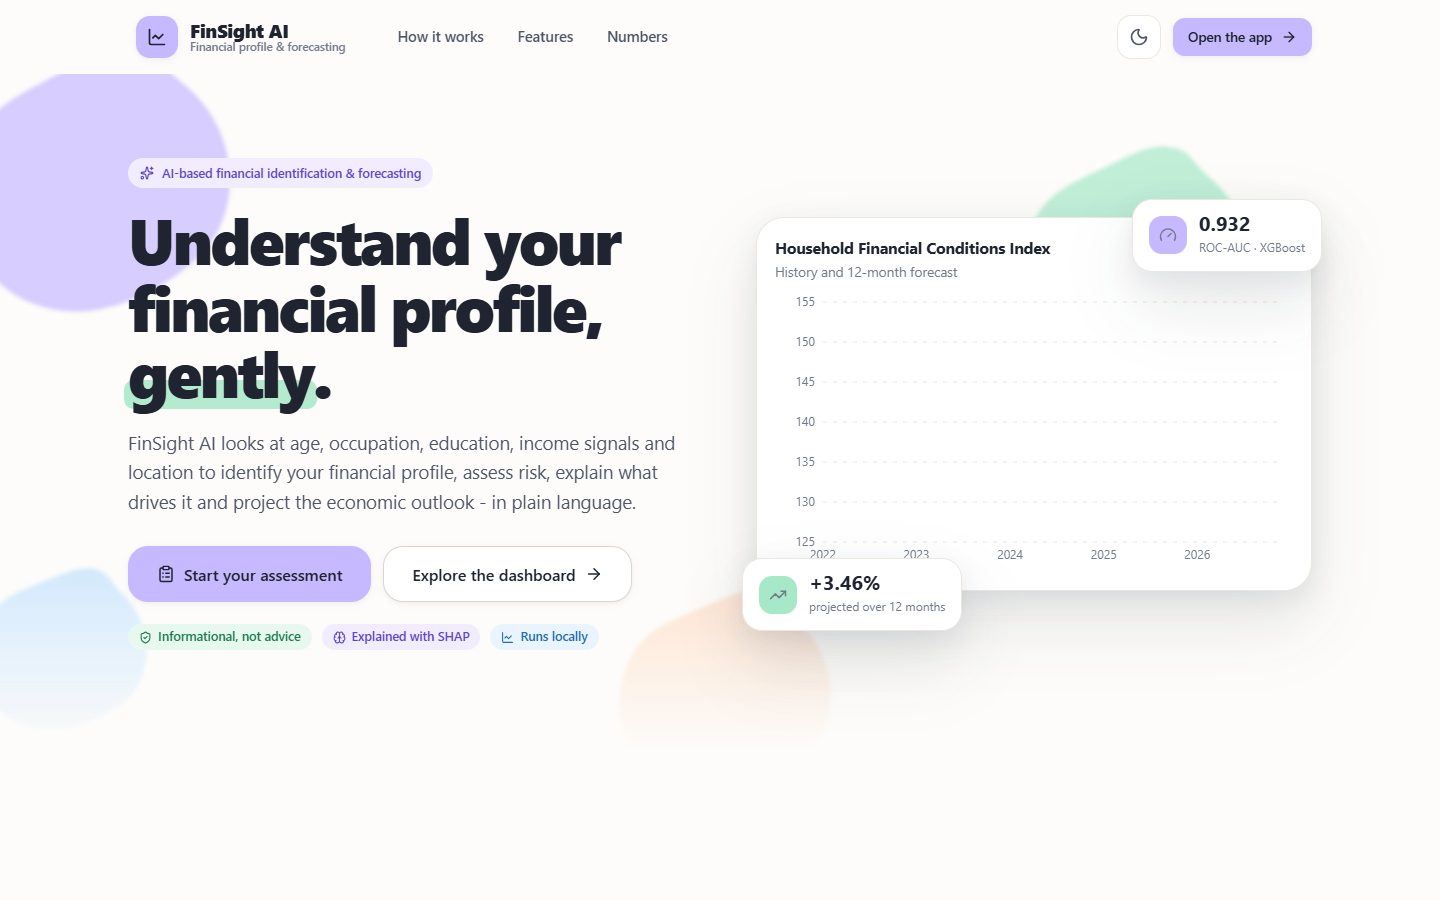
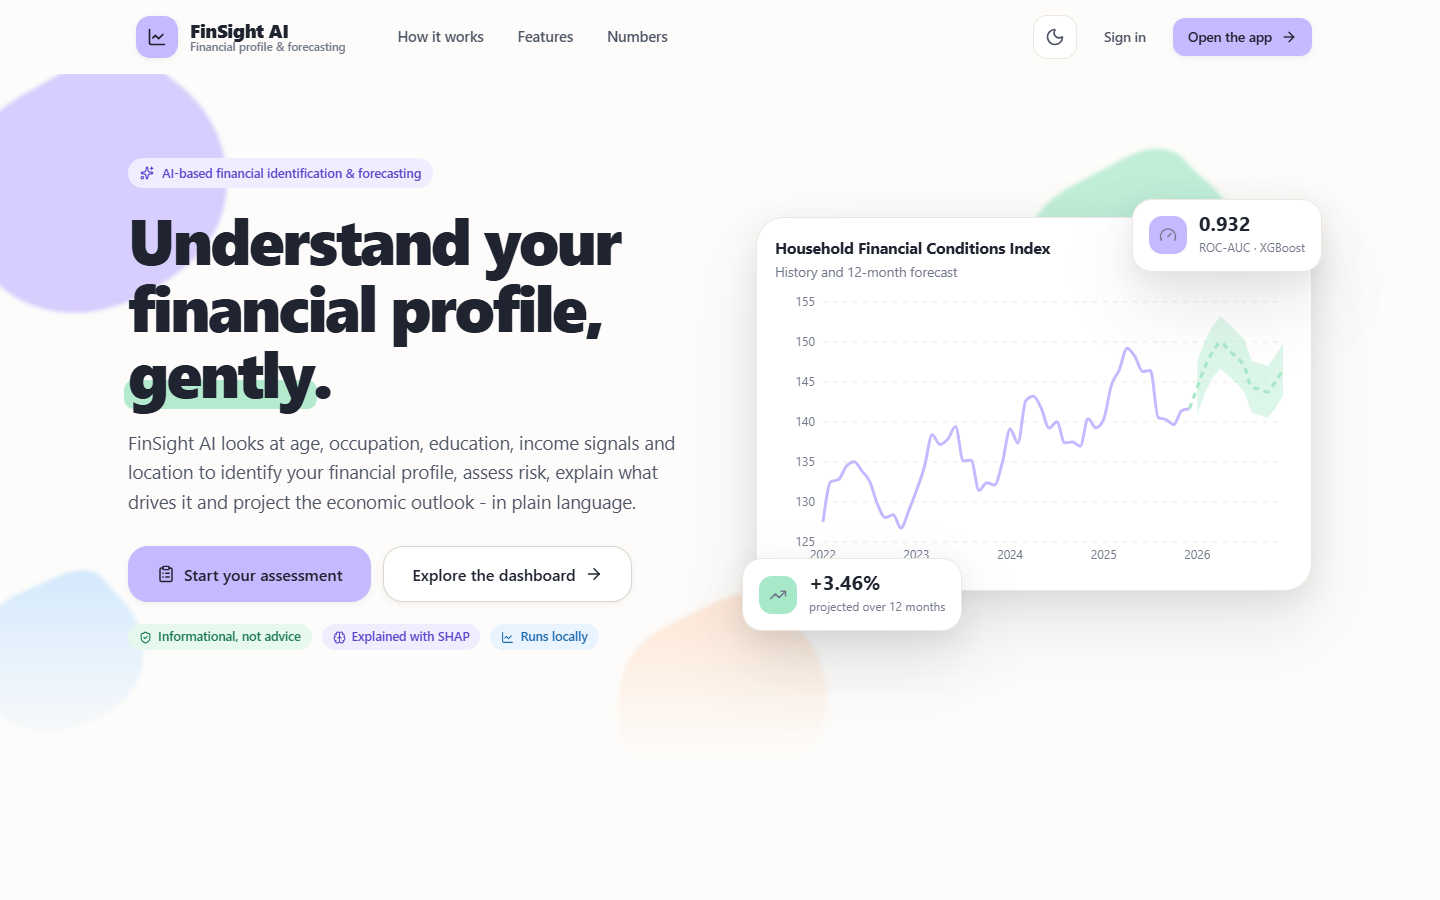
Add sample login

diff --git a/CSE/C/CSE-C-C9/8.ProjectCode/frontend/src/pages/Login.jsx b/CSE/C/CSE-C-C9/8.ProjectCode/frontend/src/pages/Login.jsx
@@ -1,0 +1,96 @@
+import { useEffect, useState } from 'react'
+import { Navigate, useLocation, useNavigate } from 'react-router-dom'
+import { AlertTriangle, KeyRound, LogIn } from 'lucide-react'
+import { DEMO_USER, useAuth } from '../lib/auth'
+import { Brand, Button, Checkbox, Input, ThemeToggle, useToast } from '../components/ui'
+import { SlideUp } from '../components/motion'
+import Blobs from '../components/reactbits/Blobs'
+
+export default function Login() {
+  const { user, login } = useAuth()
+  const navigate = useNavigate()
+  const loc = useLocation()
+  const toast = useToast()
+  const [email, setEmail] = useState('')
+  const [password, setPassword] = useState('')
+  const [show, setShow] = useState(false)
+  const [errors, setErrors] = useState({})
+  const [failed, setFailed] = useState(false)
+  const [busy, setBusy] = useState(false)
+  const from = loc.state?.from || '/app'
+
+  useEffect(() => {
+    document.title = 'Sign in · FinSight AI'
+  }, [])
+
+  if (user) return <Navigate to={from} replace />
+
+  const submit = (e) => {
+    e.preventDefault()
+    const errs = {}
+    if (!email.trim()) errs.email = 'Enter your email.'
+    else if (!/^\S+@\S+\.\S+$/.test(email.trim())) errs.email = 'Enter a valid email address.'
+    if (!password) errs.password = 'Enter your password.'
+    setErrors(errs)
+    setFailed(false)
+    if (Object.keys(errs).length) return
+    setBusy(true)
+    // short pause so the loading state is visible; the check itself is local
+    setTimeout(() => {
+      if (login(email, password)) {
+        toast({ kind: 'success', title: `Welcome, ${DEMO_USER.name}`, message: 'You are signed in with the sample account.' })
+        navigate(from, { replace: true })
+      } else {
+        setFailed(true)
+        setBusy(false)
+      }
+    }, 450)
+  }
+
+  const fillDemo = () => {
+    setEmail(DEMO_USER.email)
+    setPassword(DEMO_USER.password)
+    setErrors({})
+    setFailed(false)
+  }
+
+  return (
+    <main id="main" className="login-wrap">
+      <Blobs preset="hero" />
+      <div className="row" style={{ position: 'absolute', top: 16, left: 16, right: 16, justifyContent: 'space-between', zIndex: 2 }}>
+        <Brand />
+        <ThemeToggle />
+      </div>
+      <SlideUp className="login-card">
+        <form onSubmit={submit} noValidate className="stack" style={{ '--gap': '16px' }}>
+          <div>
+            <span className="eyebrow"><KeyRound size={14} aria-hidden="true" />Sample login</span>
+            <h1 style={{ marginTop: 12, fontSize: 'clamp(26px, 6vw, 32px)' }}>Welcome back</h1>
+            <p className="muted" style={{ marginTop: 6 }}>Sign in to open your FinSight AI workspace.</p>
+          </div>
+
+          <div className="login-demo">
+            <strong>Demo account</strong>
+            <p style={{ marginTop: 4 }}>Email <code>{DEMO_USER.email}</code></p>
+            <p style={{ marginTop: 4 }}>Password <code>{DEMO_USER.password}</code></p>
+            <Button variant="secondary" size="sm" onClick={fillDemo} style={{ marginTop: 10 }}>Use demo credentials</Button>
+          </div>
+
+          {failed && (
+            <div className="state error" role="alert" style={{ alignItems: 'flex-start', textAlign: 'left', padding: '14px 16px' }}>
+              <strong className="row" style={{ '--gap': '8px' }}><AlertTriangle size={18} aria-hidden="true" />Email or password is incorrect</strong>
+              <p className="small">Use the demo account above, or press “Use demo credentials”.</p>
+            </div>
+          )}
+
+          <Input id="login-email" label="Email" type="email" autoComplete="username" value={email} onChange={(e) => setEmail(e.target.value)} error={errors.email} required />
+          <Input id="login-password" label="Password" type={show ? 'text' : 'password'} autoComplete="current-password" value={password} onChange={(e) => setPassword(e.target.value)} error={errors.password} required />
+          <Checkbox label="Show password" checked={show} onChange={setShow} />
+
+          <Button type="submit" size="lg" block icon={LogIn} loading={busy}>Sign in</Button>
+          <p className="small muted">Sample login for demonstration only: it runs in your browser and protects nothing. FinSight AI has no user accounts or stored personal data.</p>
+        </form>
+      </SlideUp>
+    </main>
+  )
+}

diff --git a/CSE/C/CSE-C-C9/8.ProjectCode/frontend/src/lib/auth.jsx b/CSE/C/CSE-C-C9/8.ProjectCode/frontend/src/lib/auth.jsx
@@ -1,0 +1,47 @@
+import { createContext, useCallback, useContext, useMemo, useState } from 'react'
+
+// Sample login only: the product has no accounts, so this is a client-side demo gate
+// (not real security). Credentials are shown on the login screen.
+export const DEMO_USER = { email: 'demo@finsight.ai', password: 'finsight123', name: 'Demo User' }
+const KEY = 'finsight-auth'
+
+function read() {
+  try {
+    return JSON.parse(localStorage.getItem(KEY) || 'null')
+  } catch {
+    return null
+  }
+}
+
+const AuthCtx = createContext({ user: null, login: () => false, logout: () => {} })
+
+export function AuthProvider({ children }) {
+  const [user, setUser] = useState(read)
+  const login = useCallback((email, password) => {
+    if (email.trim().toLowerCase() === DEMO_USER.email && password === DEMO_USER.password) {
+      const u = { email: DEMO_USER.email, name: DEMO_USER.name }
+      try {
+        localStorage.setItem(KEY, JSON.stringify(u))
+      } catch {
+        /* storage blocked: session lasts until reload */
+      }
+      setUser(u)
+      return true
+    }
+    return false
+  }, [])
+  const logout = useCallback(() => {
+    try {
+      localStorage.removeItem(KEY)
+      sessionStorage.removeItem('finsight-baseline')
+      sessionStorage.removeItem('finsight-result')
+    } catch {
+      /* storage blocked */
+    }
+    setUser(null)
+  }, [])
+  const value = useMemo(() => ({ user, login, logout }), [user, login, logout])
+  return <AuthCtx.Provider value={value}>{children}</AuthCtx.Provider>
+}
+
+export const useAuth = () => useContext(AuthCtx)

diff --git a/CSE/C/CSE-C-C9/8.ProjectCode/frontend/src/components/ui/Layout.jsx b/CSE/C/CSE-C-C9/8.ProjectCode/frontend/src/components/ui/Layout.jsx
@@ -10,6 +10,7 @@ import {
   Info,
   LayoutDashboard,
   LineChart,
+  LogOut,
   Menu,
   Moon,
   Sun,
@@ -18,6 +19,7 @@ import {
 import { api } from '../../lib/api'
 import { spring } from '../../lib/motion'
 import { useTheme } from '../../lib/theme'
+import { useAuth } from '../../lib/auth'
 import { PageTransition } from '../motion'
 import { Breadcrumbs } from './Nav'
 import { IconButton } from './Button'
@@ -124,6 +126,7 @@ export function ThemeToggle() {
 
 export function Topbar({ title, health, healthError, onMenu }) {
   const navigate = useNavigate()
+  const { user, logout } = useAuth()
   const state = healthError ? 'bad' : health ? '' : 'wait'
   return (
     <header className="topbar">
@@ -142,6 +145,21 @@ export function Topbar({ title, health, healthError, onMenu }) {
         </Tooltip>
       </span>
       <ThemeToggle />
+      {user && (
+        <>
+          <span className="user-chip" title={user.email}>{user.name}</span>
+          <Tooltip content="Sign out">
+            <IconButton
+              icon={LogOut}
+              label="Sign out"
+              onClick={() => {
+                logout()
+                navigate('/login', { replace: true })
+              }}
+            />
+          </Tooltip>
+        </>
+      )}
     </header>
   )
 }

diff --git a/CSE/C/CSE-C-C9/8.ProjectCode/frontend/src/pages/Landing.jsx b/CSE/C/CSE-C-C9/8.ProjectCode/frontend/src/pages/Landing.jsx
@@ -3,6 +3,7 @@ import { useReducedMotion } from 'framer-motion'
 import Lenis from 'lenis'
 import { ArrowRight, Brain, ClipboardList, FlaskConical, Gauge, LineChart, ShieldCheck, TrendingUp, Sparkles } from 'lucide-react'
 import { api } from '../lib/api'
+import { useAuth } from '../lib/auth'
 import { useAsync } from '../lib/useAsync'
 import { fmtSigned, modelLabel } from '../lib/format'
 import { Badge, Brand, Button, Container, ErrorState, Skeleton, ThemeToggle } from '../components/ui'
@@ -86,6 +87,7 @@ function HeroVisual({ forecast, dash }) {
 
 export default function Landing() {
   useSmoothScroll()
+  const { user } = useAuth()
   const dash = useAsync(api.dashboard)
   const forecast = useAsync(api.forecast)
   const m = dash.data?.metrics
@@ -108,6 +110,7 @@ export default function Landing() {
           </nav>
           <span style={{ flex: 1 }} />
           <ThemeToggle />
+          {!user && <Button to="/login" size="sm" variant="ghost">Sign in</Button>}
           <Button to="/app" size="sm" className="btn-open-app" iconRight={ArrowRight}><span>Open the app</span></Button>
         </Container>
       </header>

diff --git a/CSE/C/CSE-C-C9/8.ProjectCode/frontend/src/styles/index.css b/CSE/C/CSE-C-C9/8.ProjectCode/frontend/src/styles/index.css
@@ -490,3 +490,11 @@ table.tbl { width: 100%; border-collapse: separate; border-spacing: 0; font-size
   .progress.indeterminate .progress-fill { animation: none; width: 100%; opacity: .6; }
   .skeleton::after { animation: none; }
 }
+
+/* ---------- sample login ---------- */
+.user-chip { font-size: 13px; font-weight: 600; color: var(--text-2); padding: 7px 13px; border-radius: 999px; background: var(--surface); border: 1px solid var(--border); white-space: nowrap; }
+@media (max-width: 760px) { .user-chip { display: none; } }
+.login-wrap { position: relative; min-height: 100vh; display: grid; place-items: center; padding: 24px 16px; overflow: hidden; }
+.login-card { position: relative; z-index: 1; width: min(440px, 100%); background: var(--surface); border: 1px solid var(--border); border-radius: var(--r-xl); box-shadow: var(--shadow-lg); padding: clamp(22px, 5vw, 34px); }
+.login-demo { border-radius: var(--r); background: var(--lavender-soft); padding: 14px 16px; font-size: 13.5px; }
+.login-demo code { background: var(--surface); padding: 2px 8px; border-radius: 8px; font-size: 12.5px; overflow-wrap: anywhere; }

diff --git a/CSE/C/CSE-C-C9/8.ProjectCode/frontend/src/App.jsx b/CSE/C/CSE-C-C9/8.ProjectCode/frontend/src/App.jsx
@@ -1,8 +1,10 @@
 import { lazy, Suspense } from 'react'
 import { Route, Routes } from 'react-router-dom'
 import { AppShell, PageSkeleton } from './components/ui'
+import RequireAuth from './components/RequireAuth'
 
 const Landing = lazy(() => import('./pages/Landing'))
+const Login = lazy(() => import('./pages/Login'))
 const Dashboard = lazy(() => import('./pages/Dashboard'))
 const Assess = lazy(() => import('./pages/Assess'))
 const Result = lazy(() => import('./pages/Result'))
@@ -18,7 +20,8 @@ export default function App() {
     <Suspense fallback={<div className="container" style={{ paddingTop: 40 }}><PageSkeleton /></div>}>
       <Routes>
         <Route path="/" element={<Landing />} />
-        <Route path="/app" element={<AppShell />}>
+        <Route path="/login" element={<Login />} />
+        <Route path="/app" element={<RequireAuth><AppShell /></RequireAuth>}>
           <Route index element={<Dashboard />} />
           <Route path="assess" element={<Assess />} />
           <Route path="result" element={<Result />} />

diff --git a/CSE/C/CSE-C-C9/8.ProjectCode/frontend/src/main.jsx b/CSE/C/CSE-C-C9/8.ProjectCode/frontend/src/main.jsx
@@ -6,6 +6,7 @@ import { createRoot } from 'react-dom/client'
 import { MotionConfig } from 'framer-motion'
 import { BrowserRouter } from 'react-router-dom'
 import { ThemeProvider } from './lib/theme'
+import { AuthProvider } from './lib/auth'
 import { ToastProvider } from './components/ui'
 import App from './App'
 
@@ -14,9 +15,11 @@ createRoot(document.getElementById('root')).render(
     <MotionConfig reducedMotion="user">
       <ThemeProvider>
         <ToastProvider>
-          <BrowserRouter>
-            <App />
-          </BrowserRouter>
+          <AuthProvider>
+            <BrowserRouter>
+              <App />
+            </BrowserRouter>
+          </AuthProvider>
         </ToastProvider>
       </ThemeProvider>
     </MotionConfig>

diff --git a/CSE/C/CSE-C-C9/8.ProjectCode/frontend/src/components/RequireAuth.jsx b/CSE/C/CSE-C-C9/8.ProjectCode/frontend/src/components/RequireAuth.jsx
@@ -1,0 +1,10 @@
+import { Navigate, useLocation } from 'react-router-dom'
+import { useAuth } from '../lib/auth'
+
+/** Sends signed-out visitors to /login and returns them to the page they asked for. */
+export default function RequireAuth({ children }) {
+  const { user } = useAuth()
+  const loc = useLocation()
+  if (!user) return <Navigate to="/login" replace state={{ from: loc.pathname + loc.search }} />
+  return children
+}

diff --git a/CSE/C/CSE-C-C9/8.ProjectCode/scripts/capture_screens.py b/CSE/C/CSE-C-C9/8.ProjectCode/scripts/capture_screens.py
@@ -75,29 +75,40 @@ def main():
         shot("02_landing-dark")
         page.get_by_role("button", name="Switch to light mode").click()
 
-        # 03 dashboard
-        page.goto(base + "/app")
-        shot("03_dashboard")
+        # 03 login (sample account), then sign in through the UI; a guarded URL must redirect here first
+        page.evaluate("localStorage.removeItem('finsight-auth')")
+        page.goto(base + "/app/forecast")
+        page.wait_for_url("**/login")
+        page.wait_for_selector("#login-email")
+        shot("03_login")
+        page.get_by_role("button", name="Use demo credentials").click()
+        page.get_by_role("button", name="Sign in").click()
+        page.wait_for_url("**/app/forecast")  # returned to the page that was asked for
+        page.wait_for_selector("text=Forecast values")
 
-        # 04 assessment form, filled with the sample profile; 05 result after a real analysis
+        # 04 dashboard
+        page.goto(base + "/app")
+        shot("04_dashboard")
+
+        # 05 assessment form, filled with the sample profile; 06 result after a real analysis
         page.goto(base + "/app/assess")
         page.wait_for_selector("#assess-age")
         fill_profile(page, "assess")
-        shot("04_assessment")
+        shot("05_assessment")
         page.get_by_role("button", name="Analyse my profile").click()
         page.wait_for_url("**/app/result")
         page.wait_for_selector("text=Strengthening factors")
-        shot("05_result")
+        shot("06_result")
 
-        # 06 explainability, 07 forecast
+        # 07 explainability, 08 forecast
         page.goto(base + "/app/explain")
         page.wait_for_selector("text=Ranked features")
-        shot("06_explainability")
+        shot("07_explainability")
         page.goto(base + "/app/forecast")
         page.wait_for_selector("text=Forecast values")
-        shot("07_forecast")
+        shot("08_forecast")
 
-        # 08 what-if: baseline is prefilled from the assessment; change two scenario fields
+        # 09 what-if: baseline is prefilled from the assessment; change two scenario fields
         page.goto(base + "/app/whatif")
         page.wait_for_selector("#wi-age")
         assert page.locator("#wi-age").input_value() == PROFILE["age"], "what-if baseline was not prefilled"
@@ -105,17 +116,17 @@ def main():
         page.locator("#wi-sh").fill("50")
         page.get_by_role("button", name="Compare scenarios").click()
         page.wait_for_selector("text=Change in score")
-        shot("08_whatif")
+        shot("09_whatif")
 
-        # 09 performance, 10 about, 11 not-found
+        # 10 performance, 11 about, 12 not-found
         page.goto(base + "/app/performance")
         page.wait_for_selector("text=Statistical analysis")
-        shot("09_performance")
+        shot("10_performance")
         page.goto(base + "/app/about")
-        shot("10_about")
+        shot("11_about")
         page.goto(base + "/app/does-not-exist")
         page.wait_for_selector("text=Page not found")
-        shot("11_not-found")
+        shot("12_not-found")
 
         browser.close()
 

diff --git a/CSE/C/CSE-C-C9/8.ProjectCode/docs/FRONTEND_PLAN.md b/CSE/C/CSE-C-C9/8.ProjectCode/docs/FRONTEND_PLAN.md
@@ -59,6 +59,7 @@ proxy (`/api`, `/artifacts`, `/health` -> 8409); the built SPA is also servable 
 | Route | Screen | Covers features | API |
 |---|---|---|---|
 | `/` | **Landing** (no shell) - hero, how-it-works, capability cards, live model stats, CTA | 1, 12 | `/api/dashboard` |
+| `/login` | **Sample login** (added on request; the product had no login) - demo account, validation, wrong-password error, show password | - | none (client-side demo gate) |
 | `/app` | Dashboard | 1 | `/api/dashboard` |
 | `/app/assess` | Assessment form | 2 | `/api/options`, `/api/predict` |
 | `/app/result` | Result (profile, risk, score, SHAP factors, insights, inputs, mini forecast) | 3, 4, 5, 6 | `/api/predict` (state kept in sessionStorage), `/api/forecast` |
@@ -98,3 +99,11 @@ under 900px, tables that scroll or collapse to cards at 360px, keyboard focus + 
   `prefers-reduced-motion` (content visible, marquee static).
 - Additive backend change only: `app/api.py` (5 thin read-only/wrapper routes) registered in `app/__init__.py`;
   `run.py` now also reads `.env` for the port.
+
+## 6. Sample login
+
+The product has no accounts, so a **sample login** was added at `/login` (frontend only, no backend change):
+`demo@finsight.ai` / `finsight123`. All `/app/*` routes are guarded and return the visitor to the page they asked
+for; the session persists across reloads (`localStorage`), and Sign out in the topbar clears it. It is a demo gate
+that runs in the browser and protects nothing. Verified: redirect when signed out, empty / invalid / wrong-password
+errors, show-password, return-to-page, reload persistence, sign out, 360px layout.

diff --git a/CSE/C/CSE-C-C9/8.ProjectCode/HOW_TO_RUN.md b/CSE/C/CSE-C-C9/8.ProjectCode/HOW_TO_RUN.md
@@ -129,6 +129,9 @@ http://localhost:5000
 runs `npm install` and `npm run build` in `frontend/` (first run only), starts the API in a second window and
 serves the frontend, then opens http://localhost:5409. Needs Python 3.11+ and Node.js 18+.
 
+**Sample login:** the app opens at a sign-in screen for `/app`. Use `demo@finsight.ai` / `finsight123`
+(or press *Use demo credentials*). It is a browser-only demo gate, not real authentication.
+
 **Manual:**
 
 ```text

diff --git a/CSE/C/CSE-C-C9/8.ProjectCode/docs/03_HOW_TO_RUN.md b/CSE/C/CSE-C-C9/8.ProjectCode/docs/03_HOW_TO_RUN.md
@@ -8,6 +8,9 @@
 runs `npm install` and `npm run build` in `frontend/` (first run only), starts the API in a second window and
 serves the frontend, then opens http://localhost:5409. Needs Python 3.11+ and Node.js 18+.
 
+**Sample login:** the app opens at a sign-in screen for `/app`. Use `demo@finsight.ai` / `finsight123`
+(or press *Use demo credentials*). It is a browser-only demo gate, not real authentication.
+
 **Manual:**
 
 ```text
